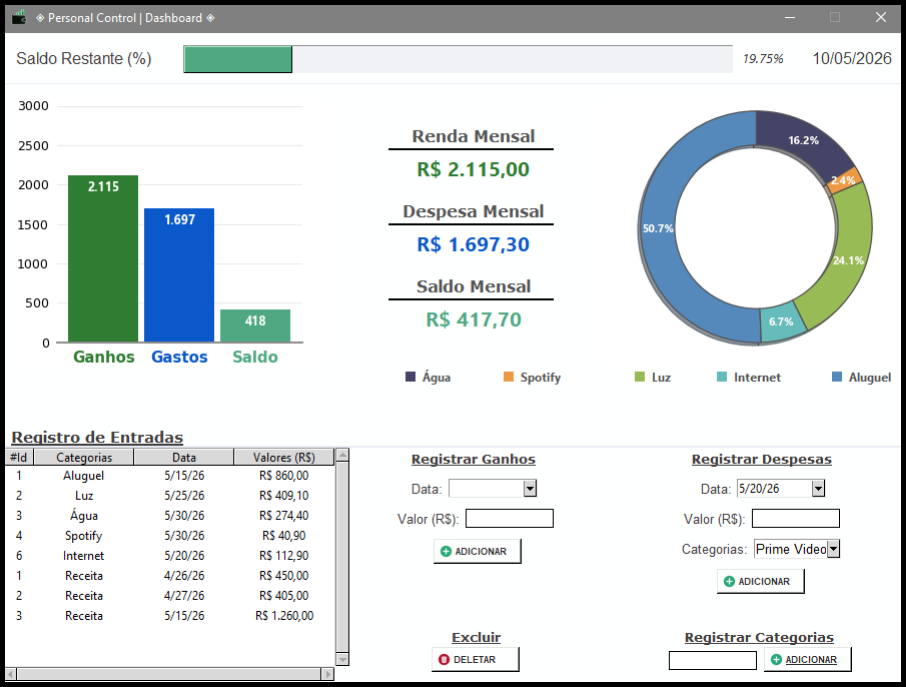
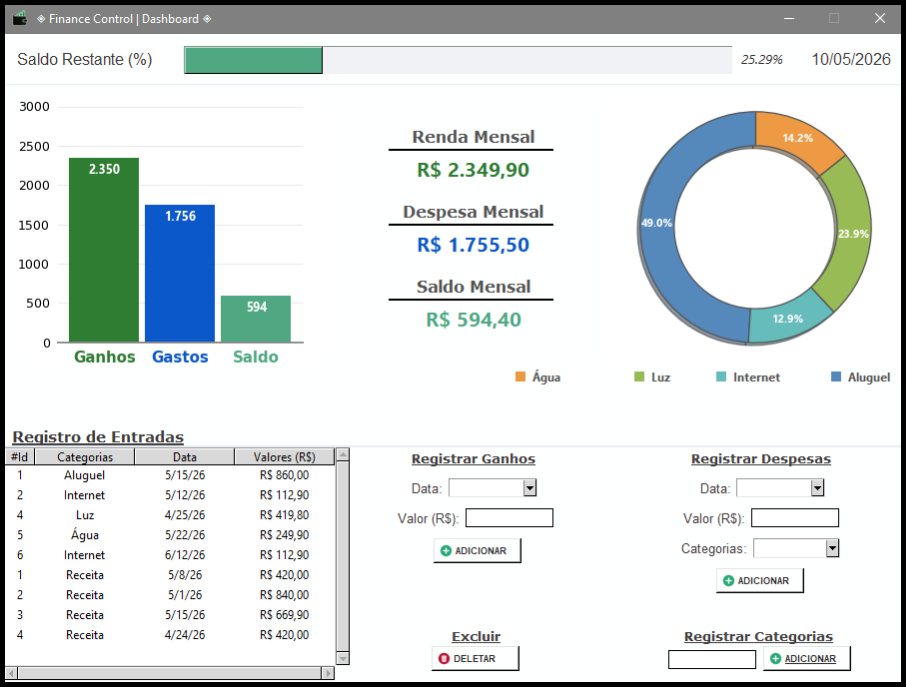
Docs: README com screenshots atualizados

diff --git a/README.md b/README.md
@@ -40,6 +40,20 @@ O sistema segue princípios de **Engenharia de Software**, com separação clara
 
 ## 🛠️ Como Executar
 
-1. Clone o repositório:
+Para rodar este projeto localmente, siga os passos abaixo no seu terminal:
+
+1. **Clone o repositório:**
    ```bash
-   git clone [https://github.com/JuniorGritti/Finance-Control-Dashboard.git](https://github.com/JuniorGritti/Finance-Control-Dashboard.git)
+   git clone https://github.com/JuniorGritti/Finance-Control-Dashboard.git
+
+2. **Entre na pasta do projeto:**
+   ```bash
+   cd Finance-Control-Dashboard
+
+3. **Instale as dependências necessárias:**
+   ```bash
+   pip install -r requirements.txt
+
+4. **Inicie o sistema:**
+   ```bash
+   python "Projeto02(Main).py"